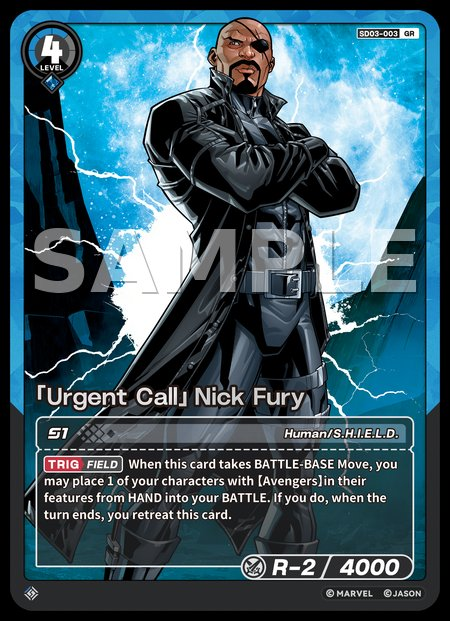
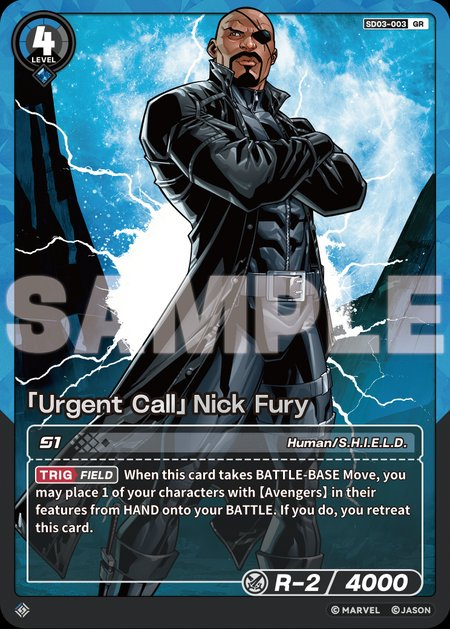
update SD03-003

diff --git a/cards.js b/cards.js
@@ -188,7 +188,7 @@ window.CARDS = [
 {no:"SD02-018",nm:"[Melee Combat] Thor",s:"SD02",c:"Kuning",l:4,r:1,p:4000,f:"Asgard/Avengers",ra:["R"],e:"[AUTO](BATTLE) Jika karakter lawan di FRONT memiliki R -1, kartu ini mendapat Power +1500.",nm_en:"「Melee Combat」Thor",e_en:"AUTO【BATTLE】: If the R of your opponent's character in FRONT is 1, this card gets Power+1500."},
 {no:"SD03-001",nm:"[Supreme Watcher] Captain America",s:"SD03",c:"Biru",l:6,r:1,p:500,f:"Human/Avengers",ra:["UR","MR","SEC"],e:"[COUNTER]([AUTO/HAND] Kartu ini dapat dipanggil pada saat tahapan counter atau langkah counter.) [TRIG](FIELD) Saat kartu ini dipanggil ke FIELD, kartu ini mendapatkan Power +X pada giliran ini. X adalah Power salah satu karakter lawan di FIELD.",nm_en:"「Supreme Watcher」Captain America",e_en:"COUNTER(AUTO【HAND】: This card may be called in COUNTER PHASE or COUNTER STEP.) TRIG【FIELD】:When this card enters the field, this card gets Power+X in this turn. X is the Power of 1 of your opponent's characters in the field."},
 {no:"SD03-002",nm:"[Wing Gust] Falcon",s:"SD03",c:"Biru",l:3,r:1,p:3500,f:"Human/Avengers",ra:["GR"],e:"[TRIG](FIELD) Saat kartu ini ditempatkan di FIELD, pindahkan 1 karakter musuh Lv4 atau lebih rendah dari WING ke BASE musuh. Jika dilakukan, dan musuh memiliki 4 kartu atau lebih di BASE, letakkan karakter tersebut secara tertutup.",nm_en:"「Wing Gust」Falcon",e_en:"TRIG【FIELD】:When this card enters the field, you move 1 of your opponent's characters with Lv4 or below from WING to your opponent's BASE. If you do and your opponent has 4 or more cards in BASE, you cover that character."},
-{no:"SD03-003",nm:"[Urgent Calls] Nick Fury",s:"SD03",c:"Biru",l:4,r:2,p:4000,f:"Human/S.H.I.E.L.D.",ra:["GR"],e:"[TRIG](FIELD) Saat kartu ini melakukan pergerakan BATTLE-BASE move, Anda bisa meletakkan 1 karakter dengan trait [Avengers] dari tangan ke BATTLE Anda. Jika dilakukan, RETREAT kartu ini pada akhir giliran.",nm_en:"「Urgent Call」Nick Fury",e_en:"TRIG【FIELD】: When this card takes BATTLE-BASE Move, you may place 1 of your characters with 【Avengers】in their features from HAND into your BATTLE. If you do, when the turn ends, you retreat this card."},
+{no:"SD03-003",nm:"[Urgent Calls] Nick Fury",s:"SD03",c:"Biru",l:4,r:2,p:4000,f:"Human/S.H.I.E.L.D.",ra:["GR"],e:"[TRIG](FIELD) Saat kartu ini melakukan pergerakan BATTLE-BASE move, Anda bisa meletakkan 1 karakter dengan trait [Avengers] dari tangan ke BATTLE Anda. Jika dilakukan, RETREAT kartu ini pada akhir giliran.",nm_en:"「Urgent Call」Nick Fury",e_en:"TRIG【FIELD】: When this card takes BATTLE-BASE Move, you may place 1 of your characters with 【Avengers】in their features from HAND onto your BATTLE. If you do, you retreat this card."},
 {no:"SD03-004",nm:"[Cold Shadow] New Black Panther",s:"SD03",c:"Biru",l:3,r:1,p:3500,f:"Human/Wakanda",ra:["SR"],e:"[AUTO](BACK) Kartu ini mendapatkan R +2. [AUTO](BASE) Kartu ini mendapatkan Lv +1.",nm_en:"「Cold Shadow」New Black Panther",e_en:"AUTO【BACK】: This card gets R+2. AUTO【BASE】: This card gets Lv+1."},
 {no:"SD03-005",nm:"[Base Regroup] Captain America",s:"SD03",c:"Biru",l:2,r:1,p:2500,f:"Human/Avengers",ra:["SR"],e:"[TRIG](FIELD/ONCE PER TURN) Saat kartu ini melakukan pergerakan BATTLE-BASE move, Anda dapat mengembalikan 1 kartu tertutup dari BASE ke tangan Anda.",nm_en:"「Base Regroup」Captain America",e_en:"TRIG【FIELD/ONCE PER TURN】: When this card takes BATTLE-BASE Move, you may move 1 of your set cards from BASE back to your HAND."},
 {no:"SD03-006",nm:"[Traction Arrow] Hawkeye",s:"SD03",c:"Biru",l:4,r:3,p:2500,f:"Human/Avengers",ra:["SR"],e:"[UNIQUE]([AUTO/FIELD] Tidak diperbolehkan ada karakter lain dengan nama yang sama dengan kartu ini pada FIELD Anda. Efek ini tidak dapat hilang.) [ACTI](BATTLE/ONCE PER TURN) Buang 2 kartu teratas dari deck Anda. Jika dilakukan Anda mengambil 1 kartu.",nm_en:"「Traction Arrow」Hawkeye",e_en:"UNIQUE(AUTO【FIELD】:You can not have another character with the same name as this card in the field. This effect can not be lost.) ACTI【BATTLE/ONCE PER TURN】:You discard the top 2 cards of your deck. If you do, you draw 1 card."},

diff --git a/README.md b/README.md
@@ -422,6 +422,31 @@ dan tetap dukung pembacaan versi 1 agar link lama tidak rusak.
 
 ## Riwayat Update
 
+### Koreksi efek SD03-003 EN — 2 September 2026 *(hanya `cards.js` + `images/en/SD03-003.jpg`)*
+Permintaan pemilik: kartu 「Urgent Call」Nick Fury (SD03-003) versi Inggris kena
+perubahan efek resmi — teks yang selama ini tampil di situs (dan tercetak di gambar
+kartu versi Inggris) sudah usang.
+
+- `cards.js` — field `e_en` diperbarui: `"...from HAND **into** your BATTLE. If you
+  do, **when the turn ends,** you retreat this card."` → `"...from HAND **onto** your
+  BATTLE. If you do, you retreat this card."` (klausa "pada akhir giliran" untuk
+  RETREAT-nya dihapus — bukan cuma ganti kata, ini perubahan waktu efek beneran).
+  Field `e` (Bahasa Indonesia) **sengaja tidak diubah** — pemilik sedang menunggu
+  daftar errata terbaru khusus Bahasa Indonesia dari sumber resmi; begitu daftar itu
+  ada, field `e` untuk SD03-003 (dan kartu lain yang kena errata yang sama) perlu
+  ditinjau ulang. **Pending** — lihat `status-terkini.md` untuk pengingatnya
+- `images/en/SD03-003.jpg` — awalnya dicoba perbaikan manual (hapus teks lama lewat
+  inpainting OpenCV, tulis ulang teks baru pakai font pengganti), tapi pemilik lalu
+  memberikan gambar kartu resmi versi terbaru langsung (sumber asli, bukan hasil edit)
+  — jadi pendekatannya diganti: gambar itu diproses (dikomposit dari kanal alpha
+  transparan ke latar hitam standar situs, resize ke lebar 450px konsisten dengan
+  gambar lain) dan dipakai apa adanya sebagai pengganti, BUKAN hasil tulis-ulang teks
+  manual. Ini lebih akurat karena bersumber dari cetakan resmi, bukan rekonstruksi font
+- Diverifikasi dengan Playwright: `DB.find` mengembalikan `e_en` yang baru, popup
+  kartu (lightbox) menampilkan teks & gambar yang sudah diperbarui, kartu terkait
+  tetap muncul normal, nol error konsol/halaman
+- Tidak ada perubahan `index.html` — jadi tidak ada kenaikan nomor versi untuk entri ini
+
 ### v6.19 — 2 September 2026 · kanal email di kotak submission deck komunitas
 Permintaan pemilik: tambahkan alamat email sebagai kanal alternatif pengiriman kode
 submission, selain DM TikTok yang sudah ada.
